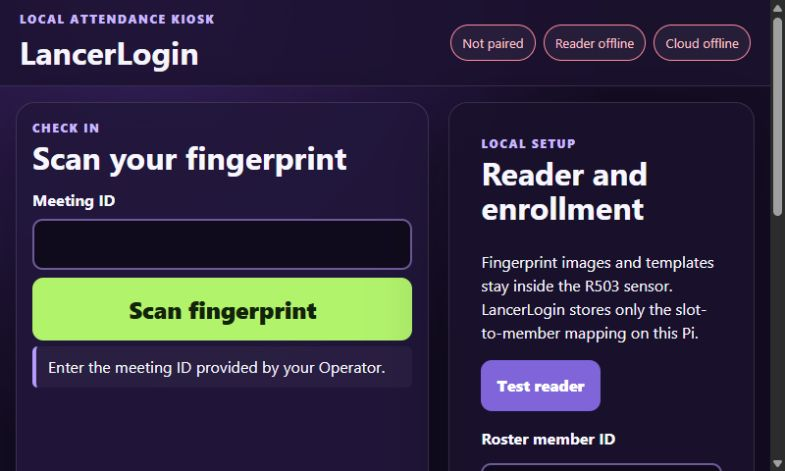
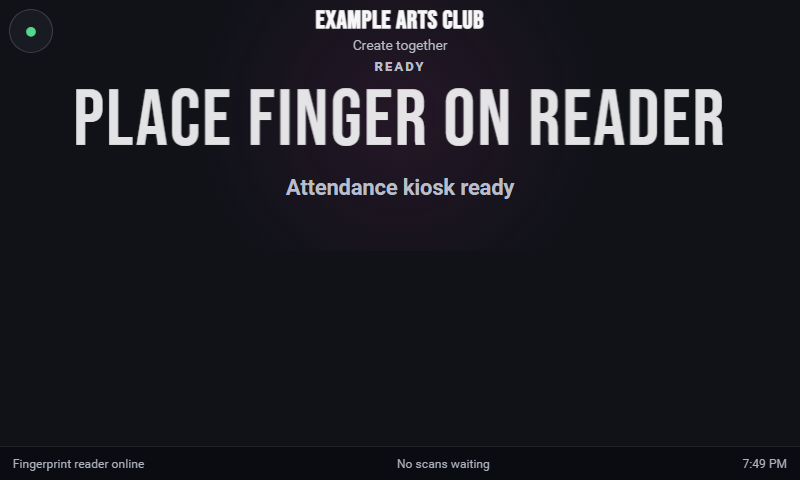
Publish v0.9 kiosk documentation

diff --git a/docs-site/kiosk.html b/docs-site/kiosk.html
@@ -14,12 +14,16 @@
   <h2>Guided installer</h2>
   <ol class="steps"><li>Download <code>install-lancerlogin.sh</code> from the matching immutable GitHub release.</li><li>Run <code>sudo bash install-lancerlogin.sh --dry-run</code>. This checks and describes changes without modifying the Pi.</li><li>Run <code>sudo bash install-lancerlogin.sh --install</code>. The installer verifies the checksum, configures the local service, and prints a `.local` address plus a LAN IP fallback. It does not ask for Cloudflare details.</li><li>In the Admin dashboard, name the kiosk and create a ten-minute one-time pairing key.</li><li>On a phone or laptop connected to the same network, open the printed Pi address and paste the key. The Pi pairs and its local pairing panel closes.</li></ol>
   <div class="callouts"><div class="callout"><span>1</span><h3>Pairing key</h3><p>Combines public routing information with a single-use code and kiosk name. Paste it as one item; it expires after ten minutes and is not stored on the Pi.</p></div><div class="callout"><span>2</span><h3>Kiosk credential</h3><p>Returned only to the Pi. The Pi stores it locally; D1 stores only its hash.</p></div><div class="callout"><span>3</span><h3>Fingerprint boundary</h3><p>R503 templates remain inside the sensor. Cloud requests contain member and meeting identifiers, never templates or scans.</p></div></div>
-  <h2>Enroll and test locally</h2>
-  <p>Open <code>http://127.0.0.1:8788/</code> on the Pi. The touch UI tests the reader, enrolls the same finger twice directly into a selected R503 slot, maintains the local slot-to-member mapping, and runs check-in. Another device on the LAN can access only the temporary pairing surface; attendance, enrollment, scanning, and mappings remain local to the kiosk.</p>
-  <figure class="annotated kiosk-shot"><img src="assets/kiosk-touch-ui.png" alt="LancerLogin touch kiosk at 800 by 480 pixels, showing the meeting check-in controls, local status, and fingerprint enrollment panel."><span class="pin one" aria-hidden="true">1</span><span class="pin two" aria-hidden="true">2</span><span class="pin three" aria-hidden="true">3</span><figcaption class="callouts"><div class="callout"><span>1</span><h3>Check in</h3><p>Enter the current meeting ID, then use the large touch target to scan.</p></div><div class="callout"><span>2</span><h3>Operational status</h3><p>Pairing, reader, cloud, and offline-queue state stay visible locally.</p></div><div class="callout"><span>3</span><h3>Enroll locally</h3><p>The same finger is captured twice and its template remains inside the R503.</p></div></figcaption></figure>
+  <h2>Scan without choosing a meeting</h2>
+  <p>The R503 scans continuously. A member presents an enrolled finger; the Worker selects the one eligible meeting from the timestamp and returns the member, meeting, and arrival/departure result. The first accepted scan welcomes the member and records arrival; the next says goodbye and records departure. An eight-second device debounce prevents a held finger from generating both events.</p>
+  <p>Organization branding remains cached while offline. Every scan enters the ordered local queue before cloud delivery, and the footer shows reader, queue, and time state. Meeting attendance windows cannot overlap, including the organization-wide late-scan allowance, so the kiosk never asks a member to choose.</p>
+  <figure class="annotated kiosk-shot"><img src="assets/kiosk-touch-ui.png" alt="Real LancerLogin v0.9 kiosk screen rendered at 800 by 480 pixels, with a green network indicator, Example Arts Club branding, a large Place finger on reader prompt, and reader, queue, and clock status in the footer."><span class="pin one" aria-hidden="true">1</span><span class="pin two" aria-hidden="true">2</span><span class="pin three" aria-hidden="true">3</span><figcaption class="callouts"><div class="callout"><span>1</span><h3>Protected network access</h3><p>Hold the network dot for three seconds to open touch Wi-Fi settings.</p></div><div class="callout"><span>2</span><h3>Member-facing state</h3><p>The center changes between ready, processing, welcome, goodbye, rejected, and offline feedback.</p></div><div class="callout"><span>3</span><h3>Operational footer</h3><p>Reader availability, queued scans, and local time remain visible without administrator clutter.</p></div></figcaption></figure>
+  <h2>Use protected local tools</h2>
+  <p>Hold the network dot for three seconds to create or enter the local 6–12 digit settings PIN, view nearby Wi-Fi, and use the on-screen keyboard. LancerLogin passes a password to NetworkManager but never saves or displays it. Hold the organization name or logo for three seconds and use the same PIN for fingerprint maintenance: test the reader, choose an active roster member, label a finger, accept a suggested slot, confirm replacements, and review or remove local mappings.</p>
+  <p>Enrollment captures the same finger twice and creates the template inside the R503. The owner-only Pi file stores only slot, roster ID, and finger label. Removing a mapping retains the sensor template; no template or raw scan enters D1, a cloud request, a backup, or a log.</p>
   <h2>Replace a kiosk</h2>
   <p>LancerLogin supports one active kiosk. The Admin dashboard requires explicit replacement confirmation. The existing kiosk remains active until the replacement code is redeemed; then its credential is disabled.</p>
-  <p>The Admin and Operator dashboard retains only the kiosk’s latest heartbeat, reader-online flag, and reported release version. Use these fields to identify a disconnected reader or outdated kiosk without exposing biometric data.</p>
+  <p>The Kiosks page shows heartbeat, reader state, pending scans, last successful sync, release, pairing time, and a scrubbed issue category. Admins can rename, retire, replace, view history, reload the display, restart the software, reboot the Pi, or reset the local PIN. Recovery accepts only those fixed, short-lived commands and provides no remote shell.</p>
   <section class="notice"><strong>Captive portals</strong>Complete portal login manually before installation. Offline-first queueing continues after setup, but automatic captive-portal handling is unsupported.</section>
 </main>
 <footer><div><a href="index.html">Documentation home</a> · Support: <a href="mailto:robolancers@gmail.com">robolancers@gmail.com</a></div></footer>

diff --git a/docs-site/releases.html b/docs-site/releases.html
@@ -6,6 +6,13 @@
   <header class="site-header"><nav class="nav" aria-label="Documentation"><a href="index.html">LancerLogin Docs</a><a href="setup.html">Set up</a><a href="kiosk.html">Kiosk</a><a href="operations.html">Operate</a><a href="releases.html" aria-current="page">Releases</a><a href="technical.html">Technical</a></nav></header>
   <header class="page-header"><div><p class="eyebrow">Patch notes</p><h1>LancerLogin releases</h1><p>Review user-visible changes and migration notes before manually authorizing an upgrade in your private deployment repository.</p></div></header>
   <main id="main" class="page"><article>
+    <p class="eyebrow">v0.9.0</p>
+    <h2>Unattended kiosk operations</h2>
+    <p>The physical kiosk now runs as a continuous member-facing scanner, chooses the eligible meeting automatically, and keeps protected maintenance and recovery out of the normal attendance screen.</p>
+    <ul><li>Non-overlapping one-time, recurring, edited, and late-scan meeting windows.</li><li>Full-screen R503 states, branded offline cache, semantic reader lighting, and ordered scan retry.</li><li>PIN-protected touch Wi-Fi and fingerprint maintenance with templates retained exclusively in the sensor.</li><li>Pairing, history, health, maintenance guidance, and fixed recovery commands on the dedicated Kiosks page.</li><li>Hardened serial startup, conflict detection, service health checks, and Pi upgrade diagnostics.</li></ul>
+    <section class="notice"><strong>Before upgrading</strong>Download an Entire installation backup and review meetings for overlaps. Manually upgrade the private deployment first, then run the matching v0.9.0 guided installer on the Pi. The cloud workflow does not replace Pi files.</section>
+    <p><a class="button" href="https://github.com/isriah/LancerLogin/blob/main/docs/releases/v0.9.0.md">Read complete v0.9.0 notes</a></p>
+  </article><article>
     <p class="eyebrow">v0.8.0</p>
     <h2>Roster polish and remote kiosk pairing</h2>
     <p>The roster is now the page focus, organization theming is more consistent, and a fresh Pi can be paired from a phone or laptop without typing Cloudflare details on its touchscreen.</p>

diff --git a/docs-site/technical.html b/docs-site/technical.html
@@ -15,7 +15,7 @@
   <div class="task-grid">
     <article class="task-card"><span>P</span><h3>Cloudflare Pages</h3><p>Static React dashboard plus a same-origin <code>/api</code> proxy. It holds no Cloudflare token, and browser credentials stay on the adopter’s Pages origin.</p></article>
     <article class="task-card"><span>W</span><h3>Worker + D1</h3><p>Authorization, validation, scrypt auth, AES-GCM integration secrets, audit trails, attendance, exports, and provider calls.</p></article>
-    <article class="task-card"><span>π</span><h3>Raspberry Pi + R503</h3><p>Loopback-only service, serial sensor I/O, local mappings, atomic offline queue, and hashed bearer pairing.</p></article>
+    <article class="task-card"><span>π</span><h3>Raspberry Pi + R503</h3><p>LAN-limited first pairing, loopback-only operational tools, serial sensor I/O, local mappings, atomic offline queue, protected networking/maintenance, and hashed bearer pairing.</p></article>
     <article class="task-card"><span>U</span><h3>Anonymous usage collector</h3><p>Isolated maintainer service with a strict field allowlist, HMAC install hashes, rate limits, daily deduplication, aggregate-only access, and scheduled retention.</p></article>
   </div>
   <h2>Security invariants</h2>
@@ -28,6 +28,8 @@
     <li>Integration credentials use AES-256-GCM with a per-installation Worker secret.</li>
     <li>Provider verification challenges expire after ten minutes and store only SHA-256 hashes; unverified credentials cannot run operational email or Discord workflows.</li>
     <li>Pairing codes and kiosk credentials are stored remotely only as SHA-256 hashes.</li>
+    <li>Meeting windows cannot overlap, allowing the Worker to resolve a kiosk scan to at most one meeting.</li>
+    <li>Remote kiosk recovery accepts four enumerated, device-scoped commands and no shell text or arbitrary arguments.</li>
     <li>CSV export neutralizes spreadsheet formula prefixes before quoting cells.</li>
   </ul>
   <h2>Verification and source reference</h2>

diff --git a/docs-site/operations.html b/docs-site/operations.html
@@ -17,11 +17,11 @@
   <p>Home, Meetings, Attendance, Reports, Roster, and Kiosks are separate deep-linkable pages. Guided setup temporarily replaces dashboard content until complete, then remains available from Organization settings and Kiosks instead of occupying permanent navigation. Each Settings category has its own URL. On Roster, Admins may link a roster member to one dashboard account and assign Admin or Operator, or create a non-rostered staff account.</p>
   <h2>Run a meeting</h2>
   <ol class="steps">
-    <li>Create a one-time meeting or a bounded daily, weekly, biweekly, or monthly series with a title, start time, and required end time.</li>
+    <li>Create a one-time meeting or a bounded daily, weekly, biweekly, or monthly series with a title, start time, and required end time. Attendance windows cannot overlap, including the shared late-scan allowance.</li>
     <li>Search the Meetings table by any displayed attribute. Edit all fields for one occurrence or that occurrence and the future series.</li>
-    <li>Each member scans on arrival and departure. One scan is active but not present; a complete pair is present. The organization-wide late-scan allowance defaults to 30 minutes after the end.</li>
+    <li>Each member scans on arrival and departure. The kiosk selects the eligible meeting automatically. One scan is active but not present; a complete pair is present. The organization-wide late-scan allowance defaults to 30 minutes after the end.</li>
     <li>Review absent records after scanning closes. Every correction or excuse requires a reason and creates an audit record.</li>
-    <li>Monitor the paired kiosk heartbeat, reader state, and installed release, which refresh every 30 seconds.</li>
+    <li>Monitor heartbeat, reader, pending queue, last sync, issue state, and installed release on Kiosks. Admins can use fixed display/service/reboot/PIN recovery actions there.</li>
     <li>Export all attendance as CSV whenever needed.</li>
   </ol>
   <h2>Import a roster safely</h2>

diff --git a/tests-browser/kiosk-smoke.spec.ts b/tests-browser/kiosk-smoke.spec.ts
@@ -1,0 +1,12 @@
+import { expect, test } from "@playwright/test";
+
+test("physical kiosk screen fits the supported 800 by 480 display", async ({ page }) => {
+  await page.setViewportSize({ width: 800, height: 480 });
+  await page.goto("http://127.0.0.1:8792/");
+  await expect(page.getByRole("heading", { name: "Place finger on reader" })).toBeVisible();
+  await expect(page.getByText("Example Arts Club")).toBeVisible();
+  await expect(page.getByText("Fingerprint reader online")).toBeVisible();
+  await expect(page.getByText("No scans waiting")).toBeVisible();
+  const dimensions = await page.evaluate(() => ({ width: document.documentElement.scrollWidth, height: document.documentElement.scrollHeight }));
+  expect(dimensions).toEqual({ width: 800, height: 480 });
+});

diff --git a/playwright.config.ts b/playwright.config.ts
@@ -11,5 +11,6 @@ export default defineConfig({
   webServer: [
     { command: "node tests/fixtures/dashboard-preview-server.mjs", url: "http://127.0.0.1:8791/setup/status", env: { LANCERLOGIN_MOCK_PORT: "8791" }, reuseExistingServer: !process.env.CI },
     { command: "npm --workspace @lancerlogin/dashboard run dev -- --host 127.0.0.1 --port 43173 --strictPort", url: "http://127.0.0.1:43173", env: { VITE_API_BASE_URL: "http://127.0.0.1:8791" }, reuseExistingServer: false },
+    { command: "node tests/fixtures/kiosk-preview-server.mjs", url: "http://127.0.0.1:8792/health", env: { LANCERLOGIN_KIOSK_PREVIEW_PORT: "8792" }, reuseExistingServer: false },
   ],
 });
